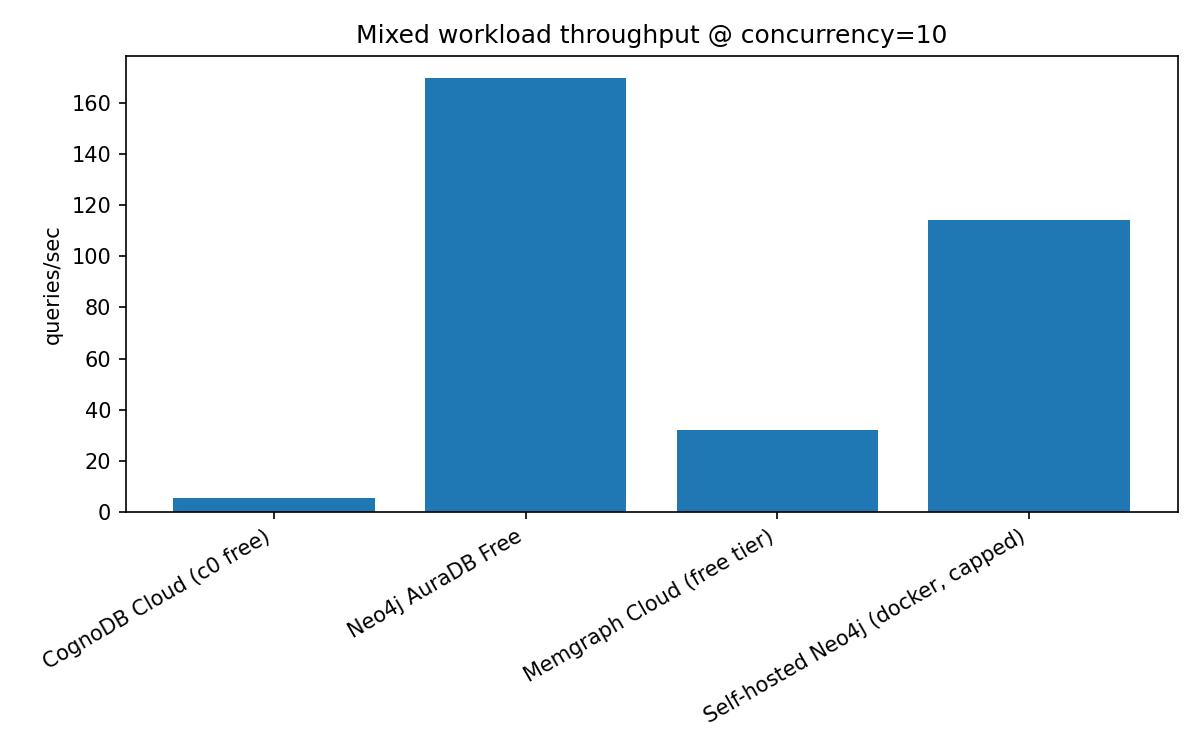
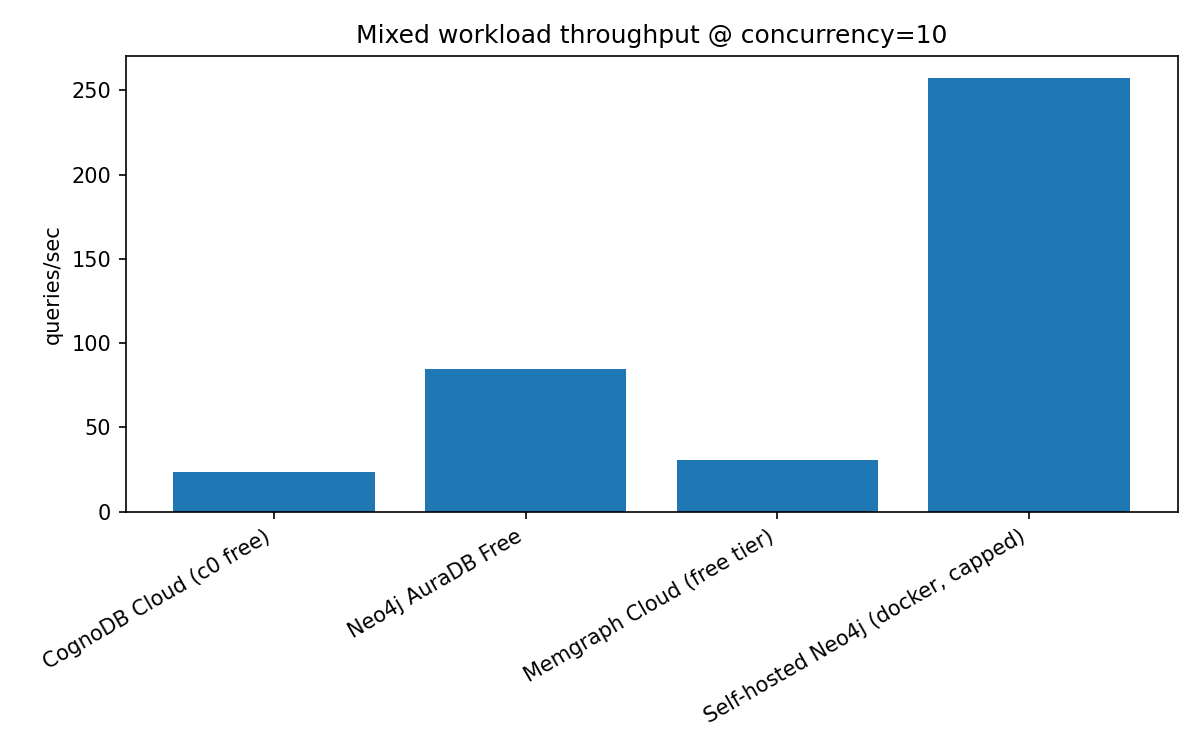
Update benchmark report and comparison charts

diff --git a/results/report.md b/results/report.md
@@ -16,7 +16,7 @@ _Auto-generated by harness/build_report.py -- paste into README.md_
 
 | Platform                           | Nodes   | Relationships   | Nodes/sec   | Rels/sec   |
 |------------------------------------|---------|-----------------|-------------|------------|
-| CognoDB Cloud (c0 free)            | 98261   | 150000          | 2376.11     | 2303.86    |
+| CognoDB Cloud (c0 free)            | 98261   | 150000          | 2285.11     | 1779.11    |
 | Neo4j AuraDB Free                  | 98261   | 150000          | 8730.2      | 7215.3     |
 | Memgraph Cloud (free tier)         | 98261   | 150000          | 77.16       | 34.44      |
 | FalkorDB Cloud (free tier)         | n/a     | n/a             | n/a         | n/a        |
@@ -26,45 +26,45 @@ _Auto-generated by harness/build_report.py -- paste into README.md_
 
 | Platform                           | 1-hop p50   | 1-hop p95   | 2-hop p50   | 2-hop p95   | 3-hop p50   | 3-hop p95   |
 |------------------------------------|-------------|-------------|-------------|-------------|-------------|-------------|
-| CognoDB Cloud (c0 free)            | 289.949     | 299.497     | 292.058     | 322.088     | 294.143     | 313.842     |
-| Neo4j AuraDB Free                  | 102.489     | 318.337     | 102.343     | 289.295     | 100.234     | 105.006     |
-| Memgraph Cloud (free tier)         | 307.334     | 396.269     | 300.876     | 389.671     | 308.454     | 433.921     |
+| CognoDB Cloud (c0 free)            | 284.029     | 287.43      | 284.373     | 299.732     | 283.922     | 298.568     |
+| Neo4j AuraDB Free                  | 124.3       | 136.755     | 124.037     | 140.128     | 122.777     | 134.487     |
+| Memgraph Cloud (free tier)         | 281.69      | 342.893     | 282.378     | 325.147     | 297.835     | 362.309     |
 | FalkorDB Cloud (free tier)         | n/a         | n/a         | n/a         | n/a         | n/a         | n/a         |
-| Self-hosted Neo4j (docker, capped) | 4.452       | 87.75       | 3.659       | 76.016      | 3.46        | 43.564      |
+| Self-hosted Neo4j (docker, capped) | 4.961       | 99.243      | 3.038       | 93.486      | 2.755       | 67.53       |
 
 ## Lookups (ms)
 
 | Platform                           | Point p50   | Point p95   | Filtered p50   | Filtered p95   |
 |------------------------------------|-------------|-------------|----------------|----------------|
-| CognoDB Cloud (c0 free)            | 307.202     | 317.97      | 1092.605       | 1230.909       |
-| Neo4j AuraDB Free                  | 58.254      | 76.203      | 60.291         | 103.574        |
-| Memgraph Cloud (free tier)         | 390.211     | 1040.915    | 294.775        | 362.624        |
+| CognoDB Cloud (c0 free)            | 279.667     | 286.716     | 1081.673       | 1198.547       |
+| Neo4j AuraDB Free                  | 117.961     | 141.438     | 122.568        | 147.744        |
+| Memgraph Cloud (free tier)         | 287.422     | 320.054     | 318.055        | 473.702        |
 | FalkorDB Cloud (free tier)         | n/a         | n/a         | n/a            | n/a            |
-| Self-hosted Neo4j (docker, capped) | 5.691       | 88.233      | 5.152          | 86.376         |
+| Self-hosted Neo4j (docker, capped) | 3.283       | 49.691      | 3.023          | 35.733         |
 
 ## Aggregations (ms)
 
 | Platform                           | Count p50   | Count p95   | GroupBy p50   | GroupBy p95   |
 |------------------------------------|-------------|-------------|---------------|---------------|
-| CognoDB Cloud (c0 free)            | 2352.731    | 2522.305    | 7877.084      | 8586.533      |
-| Neo4j AuraDB Free                  | 51.97       | 53.905      | 116.965       | 502.814       |
-| Memgraph Cloud (free tier)         | 305.077     | 545.901     | 299.166       | 374.927       |
+| CognoDB Cloud (c0 free)            | 2384.917    | 2511.171    | 7968.815      | 8630.217      |
+| Neo4j AuraDB Free                  | 119.795     | 155.385     | 155.692       | 201.225       |
+| Memgraph Cloud (free tier)         | 290.926     | 311.984     | 313.851       | 324.817       |
 | FalkorDB Cloud (free tier)         | n/a         | n/a         | n/a           | n/a           |
-| Self-hosted Neo4j (docker, capped) | 3.177       | 43.506      | 185.927       | 284.712       |
+| Self-hosted Neo4j (docker, capped) | 2.501       | 4.368       | 182.158       | 230.3         |
 
 ## Mixed read/write workload
 
 | Platform                           |   Concurrency |   Write ratio |    QPS |   p50 (ms) |   p95 (ms) |   Errors |
 |------------------------------------|---------------|---------------|--------|------------|------------|----------|
-| CognoDB Cloud (c0 free)            |            10 |           0.2 |   5.13 |    307.829 |   3472.13  |        0 |
-| CognoDB Cloud (c0 free)            |            20 |           0.2 |  33.4  |    307.975 |   1924.39  |       19 |
-| CognoDB Cloud (c0 free)            |            40 |           0.2 |  34.9  |    357.041 |   4749.26  |        0 |
-| Neo4j AuraDB Free                  |            10 |           0.2 | 170.1  |     54.402 |     72.644 |        0 |
-| Neo4j AuraDB Free                  |            20 |           0.2 | 320    |     58.506 |     79.125 |        0 |
-| Neo4j AuraDB Free                  |            40 |           0.2 | 584.58 |     59.811 |     90.724 |        1 |
-| Memgraph Cloud (free tier)         |            10 |           0.2 |  31.88 |    300.428 |    376.78  |        0 |
-| Memgraph Cloud (free tier)         |            20 |           0.2 |  43.88 |    456.427 |    497.476 |        0 |
-| Memgraph Cloud (free tier)         |            40 |           0.2 |  44.15 |    912.524 |    960.034 |        0 |
-| Self-hosted Neo4j (docker, capped) |            10 |           0.2 | 114.13 |     96.338 |    191.681 |        0 |
-| Self-hosted Neo4j (docker, capped) |            20 |           0.2 | 173.57 |    100.957 |    205.476 |        0 |
-| Self-hosted Neo4j (docker, capped) |            40 |           0.2 | 309.22 |    105.122 |    288.932 |        0 |
+| CognoDB Cloud (c0 free)            |            10 |           0.2 |  23.55 |    298.656 |    893.354 |        0 |
+| CognoDB Cloud (c0 free)            |            20 |           0.2 |  29.98 |    300.171 |   2164.68  |        0 |
+| CognoDB Cloud (c0 free)            |            40 |           0.2 |  35.32 |    300.587 |   5340.48  |        0 |
+| Neo4j AuraDB Free                  |            10 |           0.2 |  84.4  |    114.872 |    146.453 |        0 |
+| Neo4j AuraDB Free                  |            20 |           0.2 | 157.98 |    119.723 |    174.821 |        0 |
+| Neo4j AuraDB Free                  |            40 |           0.2 | 324.78 |    116.013 |    167.782 |        0 |
+| Memgraph Cloud (free tier)         |            10 |           0.2 |  30.6  |    303.455 |    402.103 |        0 |
+| Memgraph Cloud (free tier)         |            20 |           0.2 |  43.68 |    457.451 |    478.259 |        0 |
+| Memgraph Cloud (free tier)         |            40 |           0.2 |  43.78 |    914.202 |    937.681 |        0 |
+| Self-hosted Neo4j (docker, capped) |            10 |           0.2 | 257.53 |     13.207 |     96.448 |        0 |
+| Self-hosted Neo4j (docker, capped) |            20 |           0.2 | 371.27 |     63.499 |    100.07  |        0 |
+| Self-hosted Neo4j (docker, capped) |            40 |           0.2 | 424.62 |     94.803 |    175.543 |        0 |
